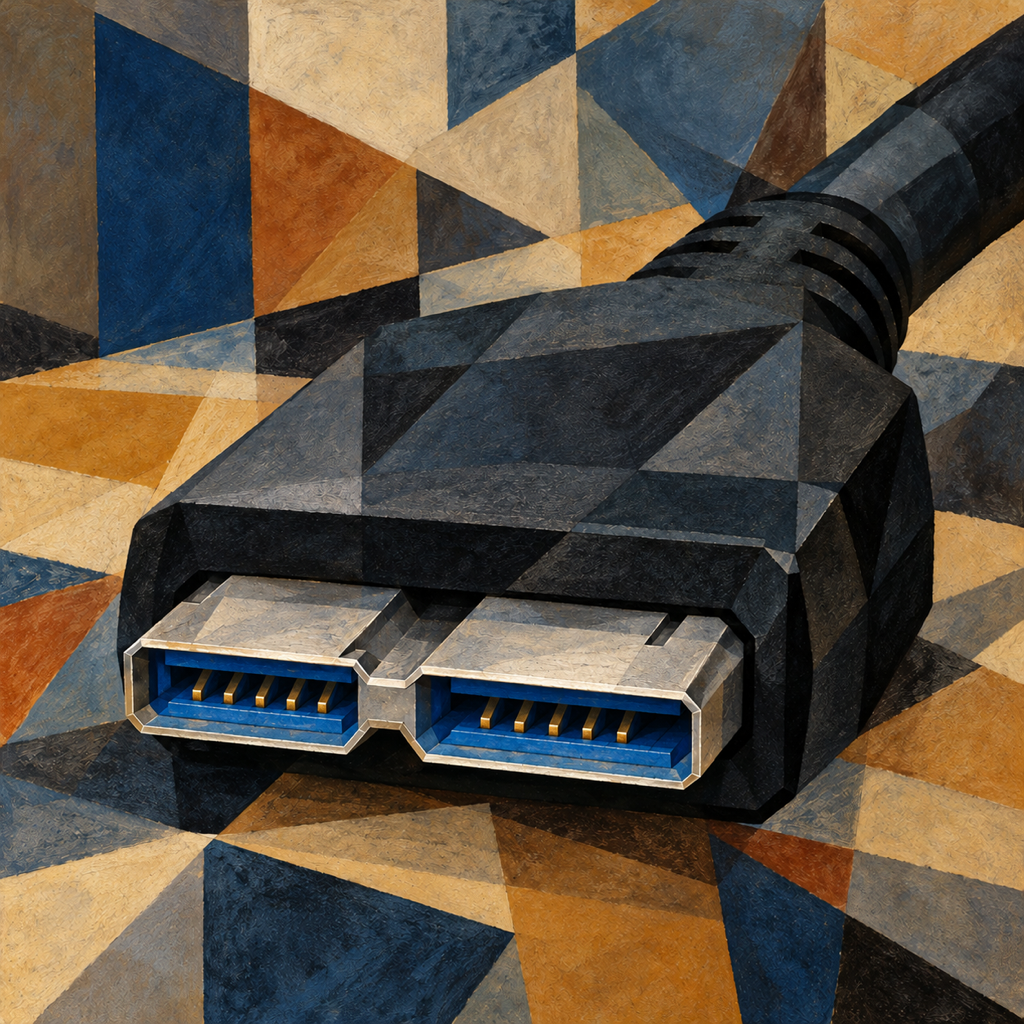
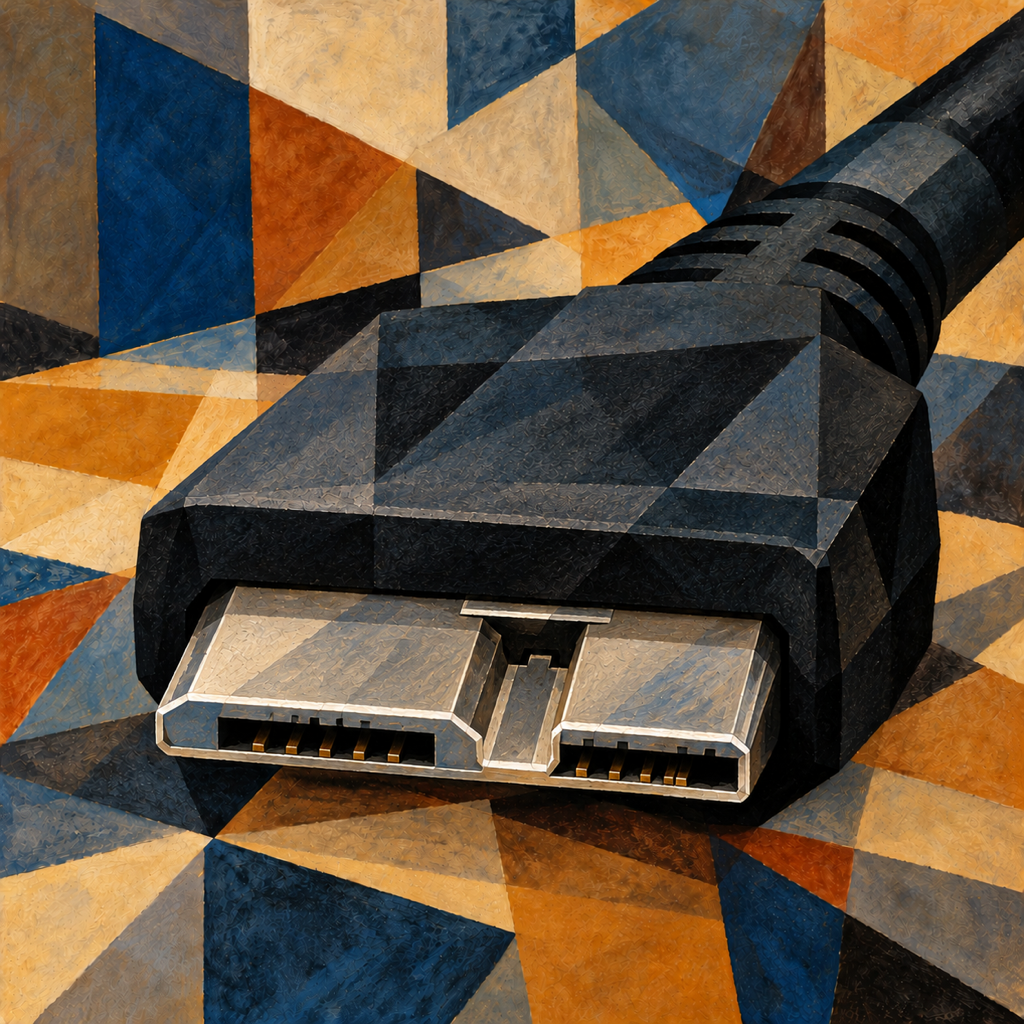
Complete 44-portrait roster and refine USB3 Micro-B from photo

diff --git a/README.md b/README.md
@@ -12,6 +12,6 @@ MUS 248 students can use the supplied portraits in an AI-free browser-based gene
 - [`images/photos/`](images/photos/): real reference photos, to be sourced separately.
 - [`docs/`](docs/): original brief, generation prompts, and visual checks.
 
-Forty portraits are supplied: 01–30, 33–34, and 36–43. All 33 starred entries are complete; four additional roster portraits remain. A manifest entry reserves a filename; it does not mean that image has been generated. Starred roster entries are prioritized. Each finished profile should include a real reference photo alongside its art portrait. The portraits have been visually inspected, but comparison against real reference photos remains pending except for MIDI, which was rebuilt using an instructor-supplied connector photo and awaits instructor review.
+All 44 roster portraits are supplied, including all 33 starred entries. Each has alt text and an art-history note. Technical geometry review remains recorded in the visual-check notes. A manifest entry reserves a filename; it does not mean that image has been generated. Starred roster entries are prioritized. Each finished profile should include a real reference photo alongside its art portrait. The portraits have been visually inspected, but comparison against real reference photos remains pending except for MIDI, which was rebuilt using an instructor-supplied connector photo and awaits instructor review.
 
 Museum notes are planning notes to confirm before publication; collection membership does not guarantee that an artwork is on view.

diff --git a/docs/visual-checks.md b/docs/visual-checks.md
@@ -132,3 +132,15 @@ All are1024x1024 PNGs without visible text or logos. Real-photo comparison pendi
 | 30 | Mini DisplayPort shape and bolt | Rectangular beveled shell and bolt on white grip; fine contact geometry not certified. |
 
 Final files1024x1024. No visible text or logos; bolt exception used only on29/30. Real-photo comparison pending.
+
+## Batch 11 and USB3 Micro-B correction
+
+| ID | Required features | Observed |
+| --- | --- | --- |
+| 27 | Photo-matched unequal sections and corners | Wider Micro-B section, narrower extension and central step rebuilt from supplied photo; five contacts per section after cleanup. Instructor review pending. |
+| 31 | FireWire400 six-contact keyed outline | Six contacts and a one-end-tapered rectangular shell visible. Precise internal geometry requires real-photo comparison. |
+| 32 | FireWire800 squarish keyed outline | Nine contacts, squarish outline and offset step visible. Precise internal keying requires real-photo comparison. |
+| 35 | Tiny flat Micro HDMI | Small flat HDMI-family plug within ornamented border; nineteen fine contacts not certified at this scale. |
+| 44 | Projector body, lens, beam | Recognizable projector, one lens and a beam onto a luminous wall. |
+
+All44 roster entries now have1024x1024 PNGs, alt text, art notes and credit records. Complete coverage does not imply instructor approval of every connector geometry. Reference photos remain separately sourced.

diff --git a/images/CREDITS.md b/images/CREDITS.md
@@ -52,9 +52,14 @@ listed in [`ROSTER.md`](ROSTER.md); none is a reproduction of the original artwo
 | 43-cable-trunk-concert-load-in.png | OpenAI built-in image generation | 2026-10-26 | No; visual feature check only |
 
 | 25-usb-mini-b.png | OpenAI built-in image generation | 2026-10-26 | No; visual feature check only |
-| 27-usb-3-0-micro-b.png | OpenAI built-in image generation | 2026-10-26 | No; visual feature check only |
+| 27-usb-3-0-micro-b.png | OpenAI built-in image generation; photo-based corner correction | 2026-10-26 | Compared visually with instructor-supplied reference; instructor review pending |
 | 29-thunderbolt-3-plus-cable.png | OpenAI built-in image generation | 2026-10-26 | No; visual feature check only |
 | 30-thunderbolt-1-2-cable.png | OpenAI built-in image generation | 2026-10-26 | No; visual feature check only |
+
+| 31-firewire-400.png | OpenAI built-in image generation | 2026-10-26 | No; visual feature check only |
+| 32-firewire-800.png | OpenAI built-in image generation | 2026-10-26 | No; visual feature check only |
+| 35-micro-hdmi.png | OpenAI built-in image generation | 2026-10-26 | No; visual feature check only |
+| 44-projector.png | OpenAI built-in image generation | 2026-10-26 | No; visual feature check only |
 
 ## 📷 Real reference photos (`images/photos/`)
 
